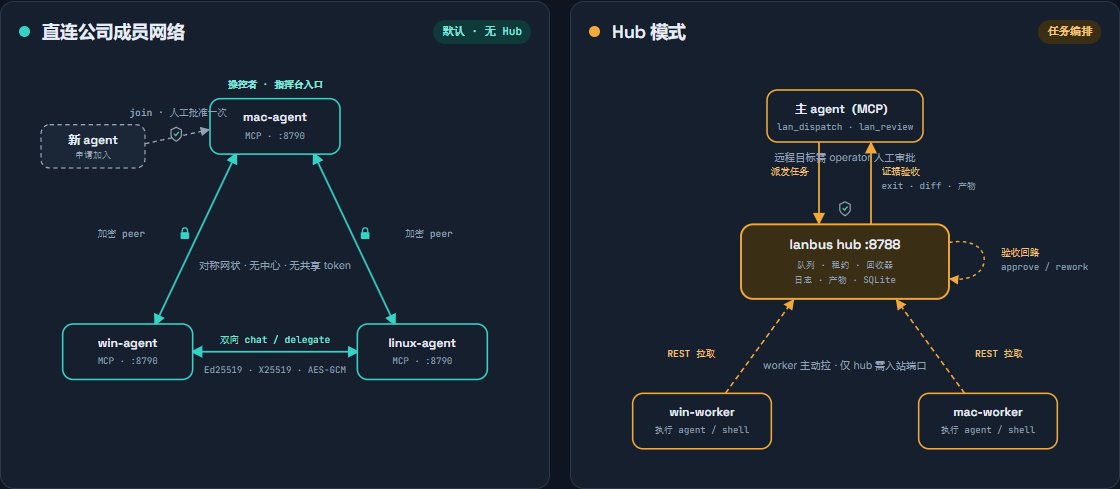
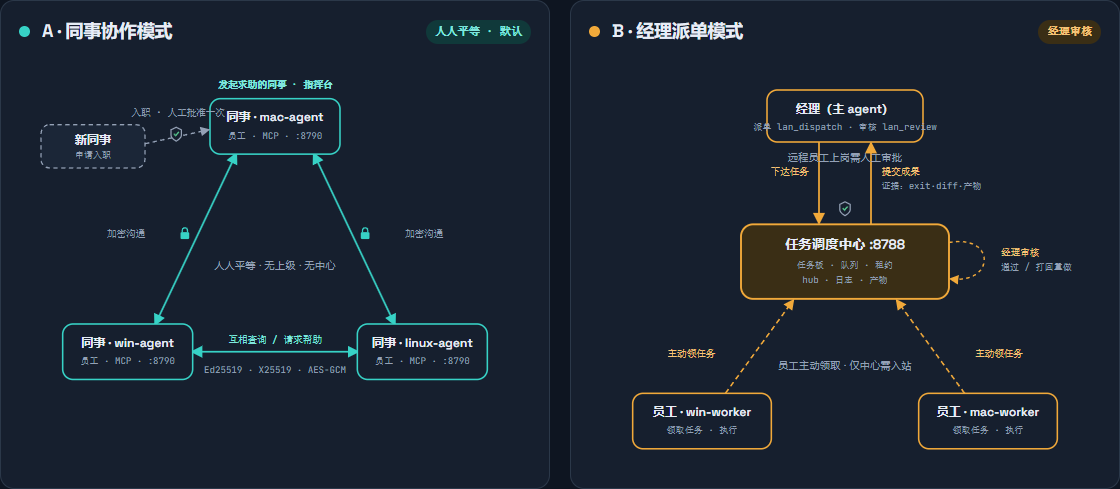
docs: reframe the two modes with a company metaphor
Rename for clarity, treating lanbus as a company and each agent as an
employee: A = colleagues (equal agents querying and helping each other),
B = manager (the main agent dispatches tasks; employee agents complete them
and submit evidence for the manager to approve or rework).

Update the README figure captions and alt text (EN + zh-CN) and regenerate
the light/dark diagram images with the new labels.

diff --git a/README.md b/README.md
@@ -15,10 +15,10 @@ Zero mandatory dependencies. Standard library only. Never leaves your LAN. Optio
 
 <picture>
   <source media="(prefers-color-scheme: dark)" srcset="docs/images/architecture-modes-dark.png">
-  <img alt="lanbus two modes: a symmetric encrypted peer mesh (direct company network) and a hub-and-spoke orchestration loop with evidence-based review" src="docs/images/architecture-modes-light.png">
+  <img alt="lanbus as a company: Mode A equal colleagues querying and helping each other over encrypted links; Mode B a manager dispatching tasks to employee agents who submit evidence for review" src="docs/images/architecture-modes-light.png">
 </picture>
 
-*The two modes at a glance: the default direct company network is a symmetric, encrypted peer mesh with no hub; hub mode is a central queue where workers pull tasks and results are accepted or sent back for rework based on real evidence (exit code, git diff, artifacts).*
+*Think of lanbus as a company and each agent as an employee. **Mode A — colleagues (direct company network):** everyone is equal; any colleague can query information or ask help from any other over encrypted links. **Mode B — manager (hub mode):** the main agent is the manager who dispatches tasks; employee agents pull and complete them, then submit evidence (exit code, git diff, artifacts) for the manager to approve or send back for rework.*
 
 ```
 Direct company network (no hub)          Hub mode (task orchestration)

diff --git a/README.zh-CN.md b/README.zh-CN.md
@@ -15,10 +15,10 @@ lanbus 现在有两种互补模式：
 
 <picture>
   <source media="(prefers-color-scheme: dark)" srcset="docs/images/architecture-modes-dark.png">
-  <img alt="lanbus 两种模式：直连公司成员网络（对称加密 peer 网状）与 Hub 编排（星型派单 + 证据验收回路）的 agent 关系与信息流" src="docs/images/architecture-modes-light.png">
+  <img alt="lanbus 公司比喻：A 模式平等同事互相加密查询求助；B 模式经理向员工 agent 派单，员工提交证据由经理审核" src="docs/images/architecture-modes-light.png">
 </picture>
 
-*两种模式一览：默认的直连公司成员网络是无中心、对称加密的 peer 网状网；Hub 模式是中心队列派单，worker 主动拉取，按真实证据（退出码、git diff、产物）决定通过或打回重做。*
+*把 lanbus 看成一家公司，每个 agent 是一名员工。**A · 同事协作（直连公司成员网络）**：人人平等，任何同事都能向其他同事加密查询信息、请求帮助。**B · 经理派单（Hub 模式）**：主 agent 是经理，负责派单；员工 agent 领取并完成任务，提交证据（退出码、git diff、产物）由经理审核，通过或打回重做。*
 
 ```
 直连公司成员网络（无 Hub）              Hub 模式（任务编排）
